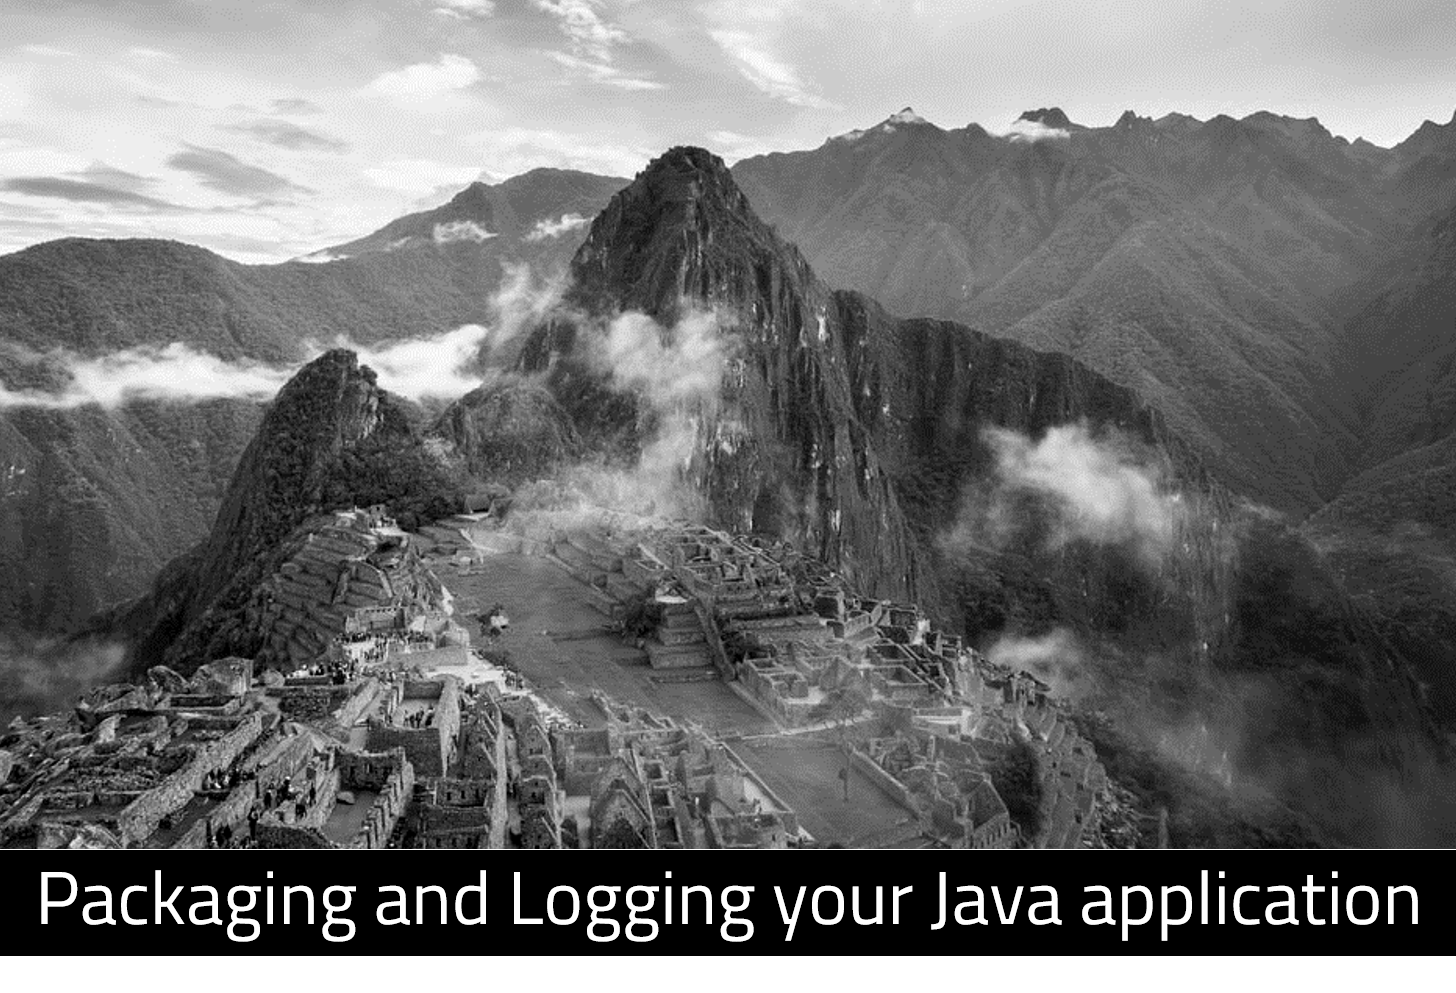
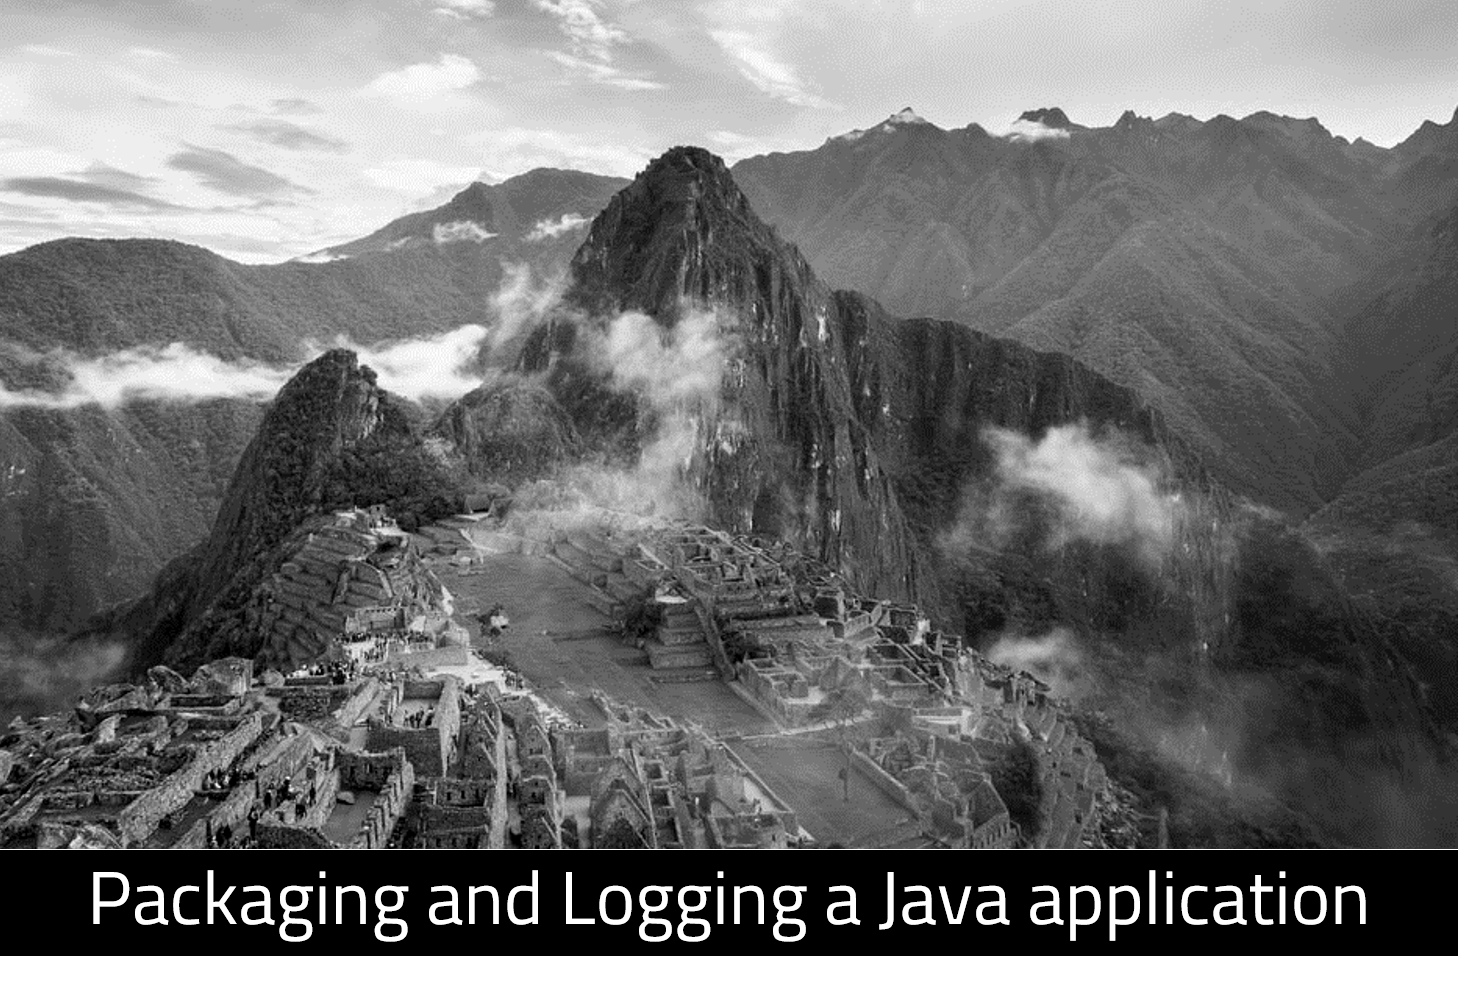
title updates

diff --git a/src/components/Sidebar.js b/src/components/Sidebar.js
@@ -50,12 +50,12 @@ const Sidebar = () => (
               <ul>
                 <li>
                   <Button className="tagButton" href={`/tag/algorithms`}>
-                    Algorithms ~ <Badge color="light">{` 1`}</Badge>
+                    Algorithms ~ <Badge color="light">{` 2`}</Badge>
                   </Button>
                 </li>
                 <li>
                   <Button className="tagButton" href={`/tag/java`}>
-                    Java ~ <Badge color="light">{` 3`}</Badge>
+                    Java ~ <Badge color="light">{` 4`}</Badge>
                   </Button>
                 </li>
                 <li>
@@ -65,7 +65,7 @@ const Sidebar = () => (
                 </li>
                 <li>
                   <Button className="tagButton" href={`/tag/data-structures`}>
-                    Data Structures ~ <Badge color="light">{` 1`}</Badge>
+                    Data Structures ~ <Badge color="light">{` 2`}</Badge>
                   </Button>
                 </li>
                 <li>

diff --git a/src/blogInProgress/005ResolvingHashConflicts.md b/src/blogInProgress/005ResolvingHashConflicts.md
@@ -1,26 +1,79 @@
 ---
-title: 'Resolving Hash Conflicts with HashTables'
-date: 2020-04-27 16:34:00
+title: 'Resolving hash conflicts with hashtables'
+date: 2020-05-04 16:34:00
 author: 'Aneesh Mistry'
-featuredImage: ../images/004MachuPicchu.png
-subtitle: 'Packaging your Spring project into a convenient JAR file and applying logging to them for feedback.'
-time: '10'
+featuredImage: ../images/005Riobamba.png
+subtitle: 'Understand how Java can resolve the a problem where a hash function creates the same key for more than one input.'
+time: '8'
 tags:
-- Spring
+- Data Structures
 - Java
-- Maven
+- Algorithms
 ---
 <br>
 <strong>Key Takeaways</strong><br>
-&#8226; The .<br>
-&#8226; The .<br>
-&#8226; The.<br>
+&#8226; Collisions occur when a hash function computes to the same value for different inputs.<br>
+&#8226; Collisions can be resolved witsh open addressing and closed addressing techniques.<br>
+&#8226; tbc<br>
 
 <br>
-<h4>Title</h4>
+<h4>What are hash functions and why do we use them?</h4>
+<p>
+Hash functions are used to map data or any arbitrary size into a fixed size. Java uses hash functions in the following key-value data structures:<br>
+&#8226; HashMap<br>
+&#8226; HashTable<br>
 
+There are just a few differences between HashMap and HashTable. HashMap data is not synchronized, and can therefore perform faster than a HashTable which is synchronized. HashMap allows one null key and any null values, whereas HashTable does not allow any null keys or values. The remainder of this post will reflect upon HashTables for simplicity.<br>
+HashTables store data in a key-value pair in an array. When an entry is made to a HashTable, the index position that the data is stored within the array is calculcated through the key. The key is used as an input to a hash function which will produce the integer index position<br>
+The hash function that is used is defined by the <code class="language-java">public int hashCode()</code> method of the Object. The example below summarises how a key-value pair of a Person object can be placed within a HashTable.<br>
 
+![HashTable visualisation](../../src/images/005HashTable.png)
 
+</p>
+<p>
+The example above stores the value (an integer) at the appropriate index, however the value could instead be any kind of Object such as a class. You would then be able to find instances of a class within the HashTable just through the key. 
+</p>
+<strong>The benefit of HashTable</strong>
+<br>
+<p>
+The HashTable resolves the problem of searching for a value within an array. If we have an array of 100 integers and we would like to find the index of a certain value, we would have to loop through each value until we find it. As a result, the time-complexity of the search would be O(n) (see my post on the Big O notation <a href = "https://aneesh.co.uk/calculating-the-time-complexity-of-algorithms">here</a> for more). HashTable allows us to find the index of a value based upon it's key. As a result, we are able to find the value within the HashTable instantly, regardless of the HashTable size O(1). 
+</p>
 
 <br>
-<small style="float: right;" >Picture: Machu Picchu, Peru by <a target="_blank" href="https://unsplash.com/@willianjusten">Willian Justen de Vasconcellos</small></a><br>
+<h4>Hashfunction collisions</h4>
+<p>
+The example visited does not mention the hash function that was used to convert the key (name) into an integer (index position). The below image demonstrates how a index was computed:
+</p>
+
+![HashTable visualisation](../../src/images/005HashTable2.png)
+
+<p>
+Each index position within the array is known as a 'bucket'. When we use our simple hashfunction to store data, we are assign the data to a free bucket in the array. A collision will occur when the hashfunction computes the same integer (index) for different keys.<br>
+If we had a fourth object with a key-value pair of: {"George",81}, the index position would be calculated as so:<br>
+"George" ASCII value = 441; 441/8 = 55; 55%8 = 7<br>
+The addition of a new entry, "George", will result in a collision with Eliza, who is also stored at index 7.
+</p>
+<br>
+<h4>Resolving collisions</h4>
+<p>
+When ou r   
+</p>
+<br>
+<h5>Open addressing</h5>
+<strong>Linear probing</strong><br>
+
+<strong>Cluster effects</strong><br>
+
+<strong>Quadratic probing</strong><br>
+
+<strong>Double-hash probing</strong><br>
+
+<br>
+<h5>Closed addressing</h5>
+
+Although we now have to make an additional move, the time complexity remains at O(1) as it would be O(1 + x) where x is the length of the linked-list.
+<br>
+<h4>Conclusion</h4>
+
+<br>
+<small style="float: right;" >Picture: Riobamba, Ecuador by <a target="_blank" href="https://unsplash.com/@ezekiel">Fernando Tapia</small></a><br>

diff --git a/src/posts/002javaObjectNotation.md b/src/posts/002javaObjectNotation.md
@@ -1,9 +1,9 @@
 ---
-title: 'Calculating the time complexity of Algorithms'
+title: 'Calculating the time complexity of algorithms'
 date: 2020-04-13 16:34:00
 author: 'Aneesh Mistry'
 featuredImage: ../images/002Colombia.png
-subtitle: 'A look into the Big O Notation, how it is applied to various data structures in Java and how it can be used to calculate the efficiency of an algorithm.'
+subtitle: 'Understand what the Big O Notation is, how it is applied to various data structures in Java, and how it can be used to calculate the efficiency of an algorithm.'
 time: '10'
 tags:
 - Java
@@ -107,7 +107,7 @@ Lastly, line 8 is used to print the result of the algorithm. This line is not in
 <p>
 As we account for the three operations within the algorithm, we have accumulated a Big O of: O(1) + O(n) + O(1).<br>
 The accumulation can be summarised into: 2 O(1) + O(n).<br>
-One defining characteristic of the Big O is that it is not concerned with the <u>rate</u> of growth, but it is concerned with the <u>type</u> of growth. Big O will not define how tightly an algorithm fits within the classification, but it will define the type of classification it falls within.</p>
+One defining characteristic of the Big O is that it is only defined by the <u>rate</u> of growth. Big O will not define how tightly an algorithm fits within the classification, but it will define the type of classification it falls within.</p>
 <p>
 As we understand that it is only the type of growth we will consider, we can remove the constants from the accumulated Big O value.<br>
 As a result, 2 O(1) + O(n) is reduced to: O(1) + O(n).<br>

diff --git a/src/posts/003AOPbasics.md b/src/posts/003AOPbasics.md
@@ -1,9 +1,9 @@
 ---
-title: 'Implementing AOP in your Spring Application'
+title: 'Implementing AOP in a Spring Application'
 date: 2020-04-20 16:34:00
 author: 'Aneesh Mistry'
 featuredImage: ../images/003Rio.png
-subtitle: 'Applying aspect-orientated programming to your application to support additional behaviours within your application processes.'
+subtitle: 'Applying aspect-orientated programming to an application to support cross-cutting behaviours across classes and methods.'
 time: '15'
 tags:
 - Spring

diff --git a/src/posts/004PackagingMaven.md b/src/posts/004PackagingMaven.md
@@ -1,9 +1,9 @@
 ---
-title: 'Running Applications from a JAR file'
+title: 'Packaging and logging a Java application'
 date: 2020-04-27 16:34:00
 author: 'Aneesh Mistry'
 featuredImage: ../images/004MachuPicchu.png
-subtitle: 'Packaging your Spring project into a convenient JAR file and applying logging to them for feedback.'
+subtitle: 'Using JAR files to package your application to be run from a server and implementing logging to provide transparency to runtime activity.'
 time: '10'
 tags:
 - Spring
